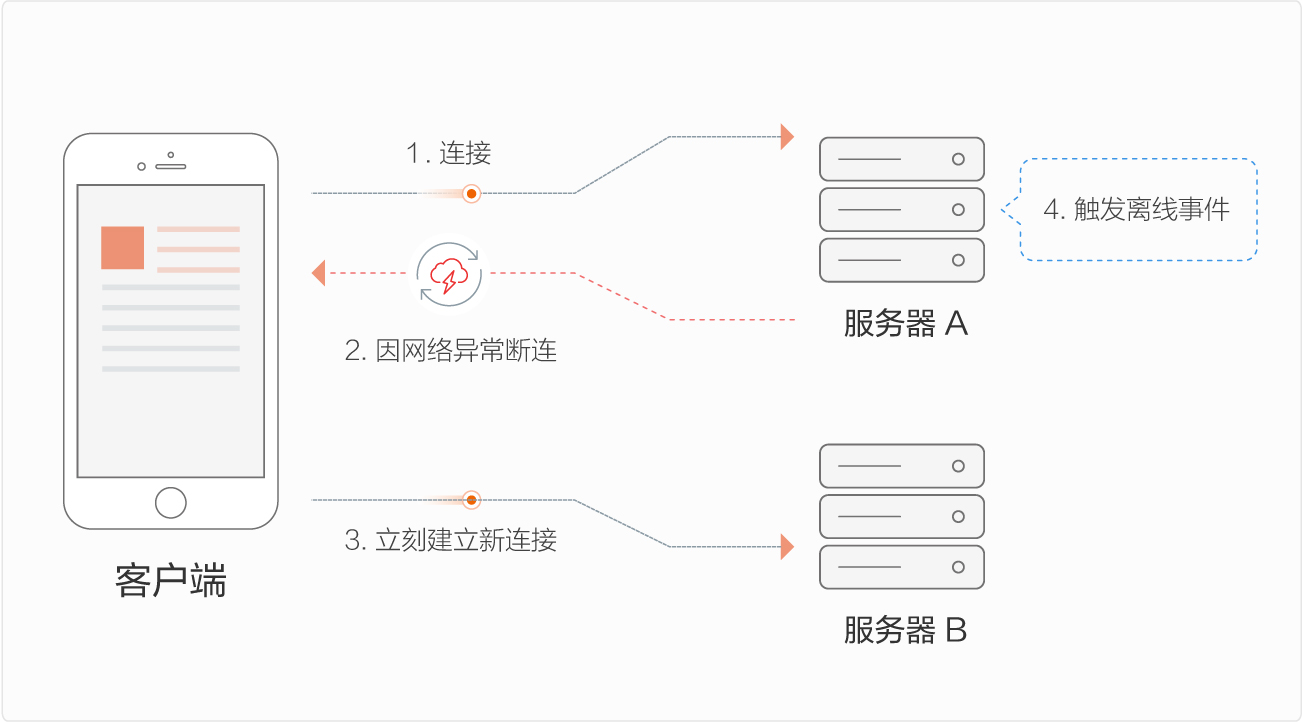
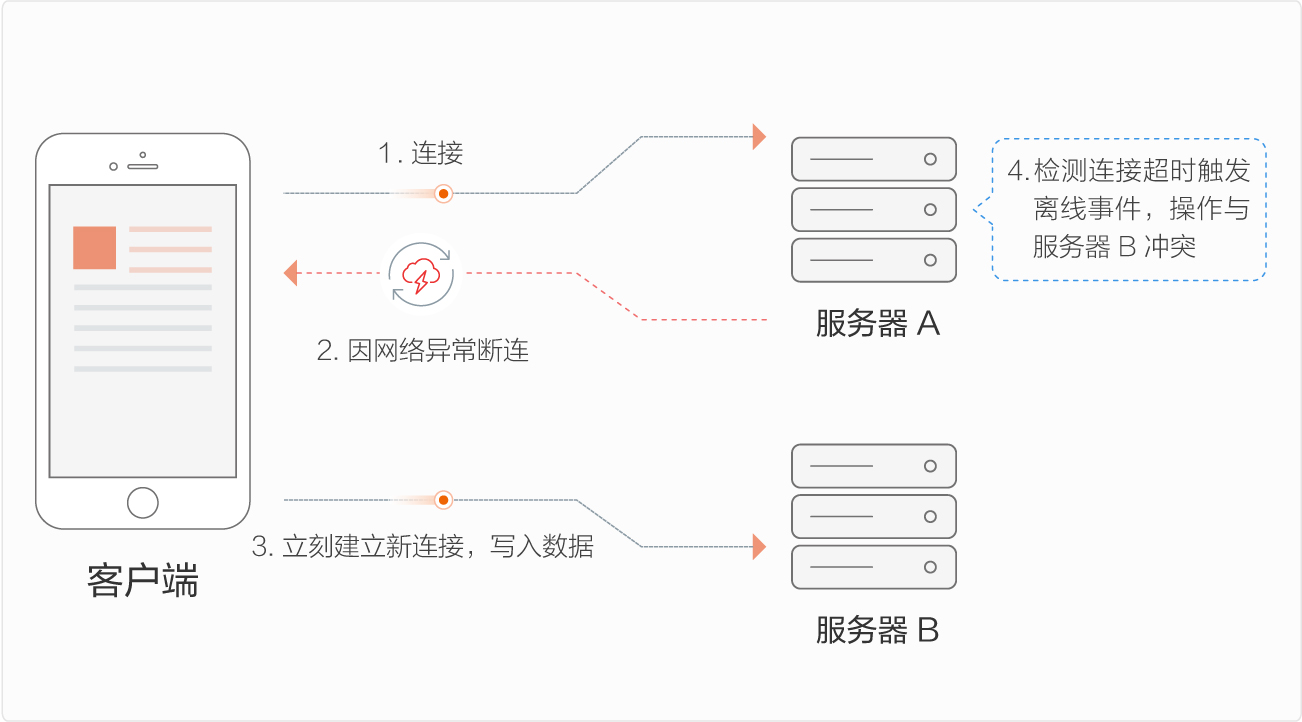
offline

diff --git a/source/guide/sync/bestpractice/offline.md b/source/guide/sync/bestpractice/offline.md
@@ -45,9 +45,9 @@ connectedRef.on("value", function(snap) {
 
 - 2.客户端与野狗服务器 A 因网络异常，中断连接；
       
-- 3.客户端检测连接断开后，未等待 SDK 自动重连，也未等待心跳超时关闭连接，立刻与野狗服务器 B 建立新连接；
+- 3.客户端检测连接断开后，未等待 SDK 自动重连，也未等待心跳超时关闭连接，立刻与野狗服务器 B 建立新连接，并写入数据 1；
 
-- 4.野狗服务器 A 检测心跳超时之后触发了离线事件。
+- 4.服务器 A 检测连接超时触发离线事件，离线事件执行操作，将数据修改为 2 ，与服务器 B 冲突。
 
 此时，客户端实际在线，但云端被标记为该客户端离线。
 
